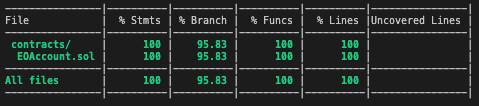
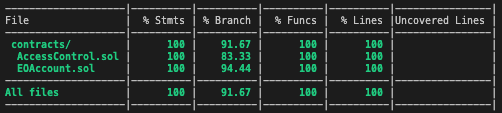
implement its own (more compact) contract AccessControl, remove renounce func, refactor others

Changed region(s): [[0.0, 0.0283, 0.9937, 0.9906], [0.0, 0.1415, 0.0585, 0.2264]]

diff --git a/test/EOAccount.js b/test/EOAccount.js
@@ -8,8 +8,6 @@ const IERC20 = require('../artifacts/@openzeppelin/contracts/token/ERC20/IERC20.
 let accounts
 let EOAccountsContract
 let myEOAccountsContract
-let adminRole
-let trustedRole
 let amount = 1000
 let mockERC20
 
@@ -23,17 +21,15 @@ describe("EOAccount", function (){
     myEOAccountsContract = await EOAccountsContract.deploy(mockERC20.address)
 
     await myEOAccountsContract.deployed()
-    adminRole = await myEOAccountsContract.DEFAULT_ADMIN_ROLE()
-    trustedRole = await myEOAccountsContract.TRUSTED_ACCOUNT_ROLE()
 
     expect(await myEOAccountsContract.owner()).to.equal(accounts[0].address)
-    await myEOAccountsContract.grantRole(trustedRole, accounts[1].address)
-    await myEOAccountsContract.grantRole(trustedRole, accounts[2].address)
-    await myEOAccountsContract.grantRole(trustedRole, accounts[3].address)
+    await myEOAccountsContract.grantTrustedRole(accounts[1].address)
+    await myEOAccountsContract.grantTrustedRole(accounts[2].address)
+    await myEOAccountsContract.grantTrustedRole(accounts[3].address)
   })
 
   describe("Main logic", function(){
-    describe("Balance", function(){
+    describe("Fund balance", function(){
       it("Fill amount by owner", async function(){
         await myEOAccountsContract.fillFund({value: amount})
         expect(await myEOAccountsContract.totalAmount()).to.equal(amount)
@@ -124,8 +120,8 @@ describe("EOAccount", function (){
         await myEOAccountsContract.connect(accounts[2]).voteRecovery(accounts[10].address)
         await myEOAccountsContract.connect(accounts[3]).voteRecovery(accounts[10].address)
 
-        expect(await myEOAccountsContract.hasRole(adminRole, accounts[0].address)).to.equal(false)
-        expect(await myEOAccountsContract.hasRole(adminRole, accounts[10].address)).to.equal(true)
+        expect(await myEOAccountsContract.hasAdminRole(accounts[0].address)).to.equal(false)
+        expect(await myEOAccountsContract.hasAdminRole(accounts[10].address)).to.equal(true)
 
         expect(await myEOAccountsContract.owner()).to.equal(accounts[10].address)
       })
@@ -136,8 +132,8 @@ describe("EOAccount", function (){
         await myEOAccountsContract.connect(accounts[1]).voteRecovery(accounts[10].address)
         await myEOAccountsContract.connect(accounts[2]).voteRecovery(accounts[10].address)
     
-        expect(await myEOAccountsContract.hasRole(adminRole, accounts[0].address)).to.equal(true)
-        expect(await myEOAccountsContract.hasRole(adminRole, accounts[10].address)).to.equal(false)
+        expect(await myEOAccountsContract.hasAdminRole(accounts[0].address)).to.equal(true)
+        expect(await myEOAccountsContract.hasAdminRole(accounts[10].address)).to.equal(false)
       })
 
       it("See voted trusted account by trusted account", async function(){
@@ -204,8 +200,8 @@ describe("EOAccount", function (){
         await myEOAccountsContract.connect(accounts[2]).resetAnyRecovery()
     
         expect(await myEOAccountsContract.connect(accounts[1]).isRecoveryInitialized()).to.equal(false)
-        expect(await myEOAccountsContract.hasRole(adminRole, accounts[0].address)).to.equal(true)
-        expect(await myEOAccountsContract.hasRole(adminRole, accounts[10].address)).to.equal(false)
+        expect(await myEOAccountsContract.hasAdminRole(accounts[0].address)).to.equal(true)
+        expect(await myEOAccountsContract.hasAdminRole(accounts[10].address)).to.equal(false)
       })
 
       it("Reset recovery when recovery not initialized", async function(){
@@ -213,8 +209,8 @@ describe("EOAccount", function (){
         await myEOAccountsContract.connect(accounts[2]).resetAnyRecovery()
         expect(await myEOAccountsContract.connect(accounts[1]).isRecoveryInitialized()).to.equal(false)
 
-        expect(await myEOAccountsContract.hasRole(adminRole, accounts[0].address)).to.equal(true)
-        expect(await myEOAccountsContract.hasRole(adminRole, accounts[10].address)).to.equal(false)
+        expect(await myEOAccountsContract.hasAdminRole(accounts[0].address)).to.equal(true)
+        expect(await myEOAccountsContract.hasAdminRole(accounts[10].address)).to.equal(false)
       })
 
       it("Reset recovery dont when admin request", async function(){
@@ -243,17 +239,17 @@ describe("EOAccount", function (){
   describe("Standart AccessControl", function(){
     describe("Accounts have correct roles", function(){
       it("Accounts have right role", async function(){
-        expect(await myEOAccountsContract.hasRole(adminRole, accounts[0].address)).to.equal(true)
-        expect(await myEOAccountsContract.hasRole(trustedRole, accounts[1].address)).to.equal(true)
-        expect(await myEOAccountsContract.hasRole(trustedRole, accounts[2].address)).to.equal(true)
-        expect(await myEOAccountsContract.hasRole(trustedRole, accounts[3].address)).to.equal(true)
+        expect(await myEOAccountsContract.hasAdminRole(accounts[0].address)).to.equal(true)
+        expect(await myEOAccountsContract.hasTrustedRole(accounts[1].address)).to.equal(true)
+        expect(await myEOAccountsContract.hasTrustedRole(accounts[2].address)).to.equal(true)
+        expect(await myEOAccountsContract.hasTrustedRole(accounts[3].address)).to.equal(true)
       })
     
       it("Accounts dont have wrong role", async function(){
-        expect(await myEOAccountsContract.hasRole(trustedRole, accounts[0].address)).to.equal(false)
-        expect(await myEOAccountsContract.hasRole(adminRole, accounts[1].address)).to.equal(false)
-        expect(await myEOAccountsContract.hasRole(adminRole, accounts[2].address)).to.equal(false)
-        expect(await myEOAccountsContract.hasRole(adminRole, accounts[3].address)).to.equal(false)
+        expect(await myEOAccountsContract.hasTrustedRole(accounts[0].address)).to.equal(false)
+        expect(await myEOAccountsContract.hasAdminRole(accounts[1].address)).to.equal(false)
+        expect(await myEOAccountsContract.hasAdminRole(accounts[2].address)).to.equal(false)
+        expect(await myEOAccountsContract.hasAdminRole(accounts[3].address)).to.equal(false)
       })  
     })
   
@@ -273,73 +269,40 @@ describe("EOAccount", function (){
 
     describe("Grant role", function(){
       it("Grant trusted role by admin", async function(){
-        await myEOAccountsContract.grantRole(trustedRole, accounts[5].address)
-        expect(await myEOAccountsContract.hasRole(trustedRole, accounts[5].address)).to.equal(true)
+        await myEOAccountsContract.grantTrustedRole(accounts[5].address)
+        expect(await myEOAccountsContract.hasTrustedRole(accounts[5].address)).to.equal(true)
         expect(await myEOAccountsContract.getCountTrustedAccounts()).to.equal(4)
-      })
-    
-      it("Grant admin role by admin", async function(){
-        expect(await myEOAccountsContract.hasRole(adminRole, accounts[5].address)).to.equal(false)
-        await myEOAccountsContract.grantRole(adminRole, accounts[5].address)
-        expect(await myEOAccountsContract.hasRole(adminRole, accounts[5].address)).to.equal(true)
       })
 
       it("Dont grant trusted role by admin, becouse double granting", async function(){
-        await myEOAccountsContract.grantRole(trustedRole, accounts[5].address)
-        expect(await myEOAccountsContract.hasRole(trustedRole, accounts[5].address)).to.equal(true)
-        await expect(myEOAccountsContract.grantRole(trustedRole, accounts[5].address)).to.be.reverted
+        await myEOAccountsContract.grantTrustedRole(accounts[5].address)
+        expect(await myEOAccountsContract.hasTrustedRole(accounts[5].address)).to.equal(true)
+        await expect(myEOAccountsContract.grantTrustedRole(accounts[5].address)).to.be.reverted
       })
 
       it("Dont grant trusted role by trusted", async function(){
-        await expect(myEOAccountsContract.connect(accounts[2]).grantRole(trustedRole, accounts[5].address)).to.be.reverted
+        await expect(myEOAccountsContract.connect(accounts[2]).grantTrustedRole(accounts[5].address)).to.be.reverted
       })
     
       it("Dont grant trusted role by alies", async function(){
-        await expect(myEOAccountsContract.connect(accounts[7]).grantRole(trustedRole, accounts[5].address)).to.be.reverted
+        await expect(myEOAccountsContract.connect(accounts[7]).grantTrustedRole(accounts[5].address)).to.be.reverted
       })  
     })
   
     describe("Revoke role", function(){
       it("Revoke trusted account role by admin", async function(){
-        await myEOAccountsContract.revokeRole(trustedRole, accounts[1].address)
+        await myEOAccountsContract.revokeTrustedRole(accounts[1].address)
 
-        expect(await myEOAccountsContract.hasRole(trustedRole, accounts[1].address)).to.equal(false)
+        expect(await myEOAccountsContract.hasTrustedRole(accounts[1].address)).to.equal(false)
         expect(await myEOAccountsContract.getCountTrustedAccounts()).to.equal(2)
       })
   
       it("Dont revoke trusted account role by this trusted", async function(){
-        await expect(myEOAccountsContract.connect(accounts[1]).revokeRole(trustedRole, accounts[1].address)).to.be.reverted
+        await expect(myEOAccountsContract.connect(accounts[1]).revokeTrustedRole(accounts[1].address)).to.be.reverted
       })
   
       it("Dont revoke trusted account role by other trusted", async function(){
-        await expect(myEOAccountsContract.connect(accounts[2]).revokeRole(trustedRole, accounts[1].address)).to.be.reverted
-      })
-    })
-  
-    describe("Renounce role", function(){
-      it("Renounce role by trusted account", async function(){
-        await myEOAccountsContract.connect(accounts[1]).renounceRole(trustedRole, accounts[1].address)
-
-        expect(await myEOAccountsContract.hasRole(trustedRole, accounts[1].address)).to.equal(false)
-        expect(await myEOAccountsContract.getCountTrustedAccounts()).to.equal(2)
-      })
-    
-      it("Renounce not exists role by trusted account", async function(){
-        expect(await myEOAccountsContract.hasRole(adminRole, accounts[1].address)).to.equal(false)
-        myEOAccountsContract.connect(accounts[1]).renounceRole(adminRole, accounts[1].address)
-        expect(await myEOAccountsContract.hasRole(adminRole, accounts[1].address)).to.equal(false)
-      })
-
-      it("Dont renounce role by admin", async function(){
-        await expect(myEOAccountsContract.renounceRole(trustedRole, accounts[2].address)).to.be.reverted
-      })
-    
-      it("Dont renounce trusted role by other trusted account", async function(){
-        await expect(myEOAccountsContract.connect(accounts[1]).renounceRole(trustedRole, accounts[2].address)).to.be.reverted
-      })
-
-      it("Dont renounce role by alias account", async function(){
-        await expect(myEOAccountsContract.connect(accounts[6]).renounceRole(trustedRole, accounts[2].address)).to.be.reverted
+        await expect(myEOAccountsContract.connect(accounts[2]).revokeTrustedRole(accounts[1].address)).to.be.reverted
       })
     })
   })

diff --git a/docs/README.md b/docs/README.md
@@ -1,41 +1,6 @@
-# Solidity API
+# Contract API
 
 ## AccountRecovery
-
-### TRUSTED_ACCOUNT_ROLE
-
-```solidity
-bytes32 TRUSTED_ACCOUNT_ROLE
-```
-
-### trustedAccounts
-
-```solidity
-address[] trustedAccounts
-```
-
-### constructor
-
-```solidity
-constructor() public
-```
-
-### Recovery
-
-```solidity
-struct Recovery {
-  bool isActual;
-  address candidate;
-  uint256 countVotesFor;
-  mapping(address => bool) voteUnique;
-}
-```
-
-### recovery
-
-```solidity
-struct AccountRecovery.Recovery recovery
-```
 
 ### getCountTrustedAccounts
 
@@ -125,56 +90,69 @@ Add agreement to transfer of ownership (only for trusted account). Also transfer
 | ---- | ---- | ----------- |
 | _candidate | address | the address of new assumed account (new assumed owner wallets) |
 
-### toRevokeTrustedRoleAccount
+### grantTrustedRole
 
 ```solidity
-modifier toRevokeTrustedRoleAccount(bytes32 _role, address _accountAddress)
+function grantTrustedRole(address _accountAddress) external
 ```
 
-### renounceRole
-
-```solidity
-function renounceRole(bytes32 _role, address _accountAddress) public
-```
-
-Renounce role by account self (permission only for self).
+Grant trusted role (permission only for admin).
 
 #### Parameters
 
 | Name | Type | Description |
 | ---- | ---- | ----------- |
-| _role | bytes32 | the role of account |
-| _accountAddress | address | the address of account (should be only == msg.sender) |
-
-### revokeRole
-
-```solidity
-function revokeRole(bytes32 _role, address _accountAddress) public
-```
-
-Revoke role (permission only for admin)
-
-#### Parameters
-
-| Name | Type | Description |
-| ---- | ---- | ----------- |
-| _role | bytes32 | the role of account |
 | _accountAddress | address | the address of account |
 
-### grantRole
+### revokeTrustedRole
 
 ```solidity
-function grantRole(bytes32 _role, address _accountAddress) public
+function revokeTrustedRole(address _accountAddress) external
 ```
 
-Grant role (permission only for admin).
+Revoke trusted role (permission only for admin)
 
 #### Parameters
 
 | Name | Type | Description |
 | ---- | ---- | ----------- |
-| _role | bytes32 | the role of account |
 | _accountAddress | address | the address of account |
+
+### hasTrustedRole
+
+```solidity
+function hasTrustedRole(address _accountAddress) external view returns (bool)
+```
+
+#### Parameters
+
+| Name | Type | Description |
+| ---- | ---- | ----------- |
+| _accountAddress | address | the address of account |
+
+#### Return Values
+
+| Name | Type | Description |
+| ---- | ---- | ----------- |
+| [0] | bool | Returns `true` if `account` has been granted `trusted role`. |
+
+### hasAdminRole
+
+```solidity
+function hasAdminRole(address _accountAddress) external view returns (bool)
+```
+
+#### Parameters
+
+| Name | Type | Description |
+| ---- | ---- | ----------- |
+| _accountAddress | address | the address of account |
+
+#### Return Values
+
+| Name | Type | Description |
+| ---- | ---- | ----------- |
+| [0] | bool | Returns `true` if `account` has been granted `admin role`. |
 
 ## EOAccount
 

diff --git a/README.md b/README.md
@@ -26,7 +26,6 @@ ________
 
 Использовались верифицированные контракты _OpenZeppelin_:
 
-- _access/AccessControl.sol_
 - _access/Ownable.sol_
 - _token/ERC20/ERC20.sol_
 
@@ -42,7 +41,7 @@ ________
 ________
 ### Функционал смены владельца доверенными лицами
 
-Данный функционал был реализован с использованием определенных ___модификаторов___ (см.  _onlyOwner, onlyRole, toRevokeTrustedRoleAccount_ и т.д.).
+Данный функционал был реализован с использованием определенных ___модификаторов___ (см.  _onlyOwner и onlyRole).
 
 Для аккаунтов введены две роли:
 
@@ -54,13 +53,13 @@ ________
 Доверенное лицо __добавляется__ администратором посредством выполнения следующей функции:
 
 ```solidity
-grantRole(TRUSTED_ACCOUNT_ROLE, accountAddress)
+grantTrustedRole(accountAddress)
 ```
 
 Администратор также может __убрать__ аккаунт из списка доверенных при помощи следующего запроса:
 
 ```solidity
-revokeRole(TRUSTED_ACCOUNT_ROLE, accountAddress)
+revokeTrustedRole(accountAddress)
 ```
 
 Сама смена владельца реализована в __два этапа__ (см. ниже).
